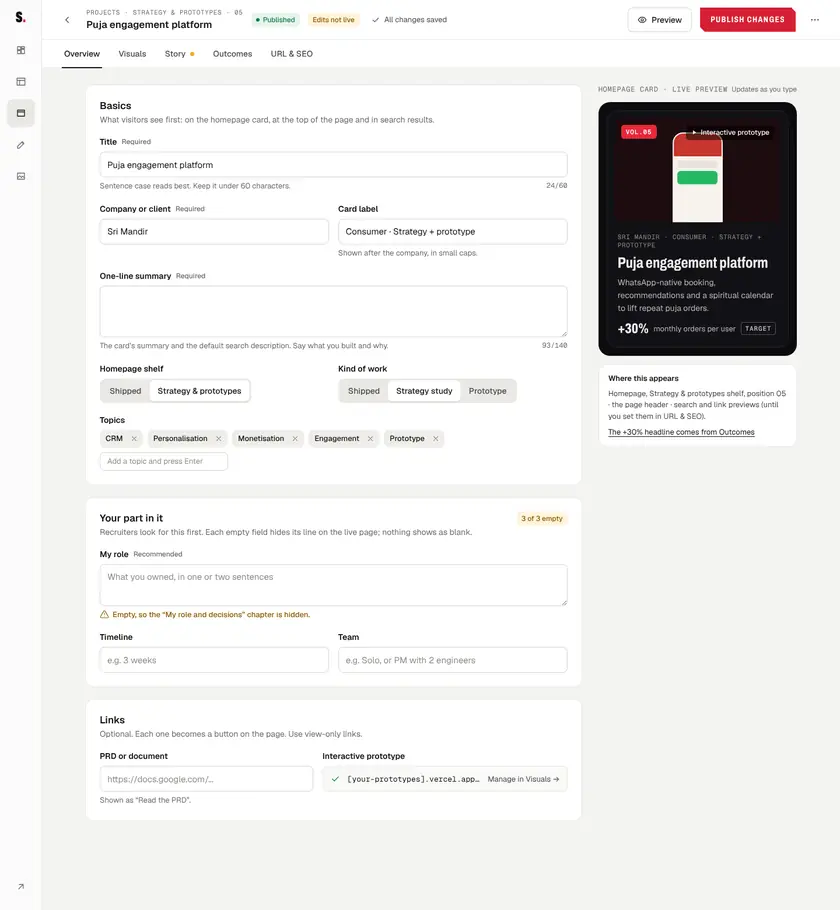
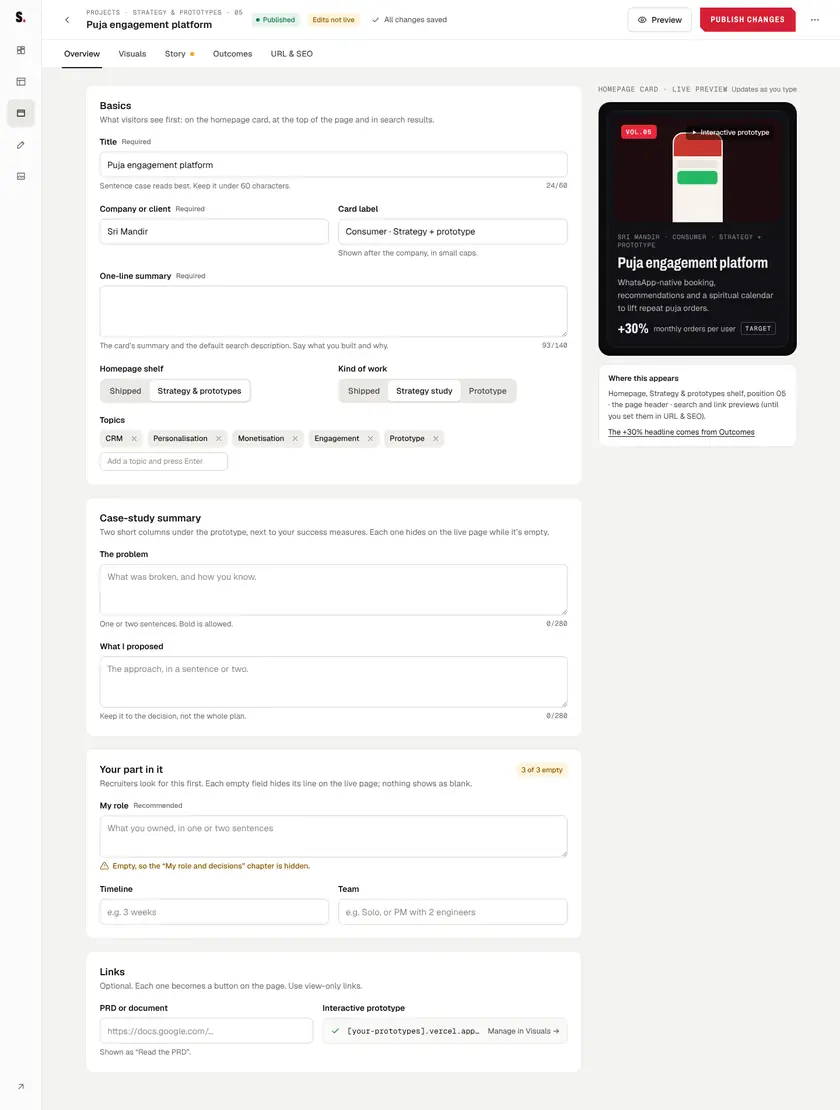
Design: case-study summary and accent fields in the project editor
- Overview gains "The problem" and "What I proposed", which fill the
  case study's summary row and hide while empty
- Visuals gains the project's accent colour, from the nine accents
- Studio canvas rows spaced so taller boards don't overlap the titles
- First-run copy no longer offers an import: V0 content is published
- Draft preview board keeps the owner's chosen default view

Claude-Session: https://claude.ai/code/session_01HuqcEgvRxGCioVYibk1SFA

diff --git a/design/boards/StudioStates.dc.html b/design/boards/StudioStates.dc.html
@@ -84,7 +84,7 @@ body{margin:0;background:#F4F4F2}
 <section class="grp"><h2>Confirmations</h2><p>Only for actions that change the live site or can’t be undone.</p><div class="sgrid" style="grid-template-columns: repeat(3, minmax(0, 1fr));"><div class="spec"><div class="cap">Publish changes · ready</div><div class="dlg"><h3>Update the live page for “Puja engagement platform”?</h3><p>The live version is replaced; the link stays the same.</p><div style="margin-top: 14px; display: grid; gap: 8px;"><div class="ln"><svg class="ico" viewBox="0 0 24 24" aria-hidden="true" style="color: var(--ok);"><path d="M5 12.5l4.5 4.5L19 7.5"></path></svg><span>Cover, prototype and every image’s alt text are set.</span></div><div class="ln"><svg class="ico" viewBox="0 0 24 24" aria-hidden="true" style="color: var(--warn);"><path d="M12 9v4M12 17h.01M10.3 3.9L2 18a2 2 0 001.7 3h16.6a2 2 0 001.7-3L13.7 3.9a2 2 0 00-3.4 0z"></path></svg><span>My role is empty, so that chapter stays hidden.</span></div></div><div class="acts"><button class="btn">Cancel</button><button class="cta">Publish now</button></div></div></div><div class="spec"><div class="cap">Publish blocked</div><div class="dlg"><h3>Fix 2 things to publish</h3><div style="margin-top: 12px; display: grid; gap: 8px;"><div class="ln"><svg class="ico" viewBox="0 0 24 24" aria-hidden="true" style="color: var(--err);"><circle cx="12" cy="12" r="9"></circle><path d="M15 9l-6 6M9 9l6 6"></path></svg><span><strong>1 image needs alt text</strong> · Visuals → Gallery</span></div><div class="ln"><svg class="ico" viewBox="0 0 24 24" aria-hidden="true" style="color: var(--err);"><circle cx="12" cy="12" r="9"></circle><path d="M15 9l-6 6M9 9l6 6"></path></svg><span><strong>Result 1 is marked achieved without evidence</strong> · Outcomes</span></div></div><p>Each item links to the field. Drafts keep saving while you fix them.</p><div class="acts"><button class="btn">Close</button><button class="cta" style="background: #D2D0CA; color: #4A4A51;">Fix 2 to publish</button></div></div></div><div class="spec"><div class="cap">Unpublish</div><div class="dlg"><h3>Unpublish “Arcana Workspace”?</h3><p>It leaves your homepage now. Its link shows your work index instead. Your content stays as a draft.</p><div class="acts"><button class="btn">Cancel</button><button class="dbtn">Unpublish</button></div></div></div><div class="spec"><div class="cap">Delete · type to confirm</div><div class="dlg"><h3>Delete “Puja engagement platform”?</h3><p>This can’t be undone. Images and videos stay in your media library.</p><label style="display: block; margin-top: 12px; font-size: 13px; color: var(--tx2);">Type <strong style="font-family: var(--fm);">puja-engagement-platform</strong> to confirm</label><div class="inp" style="display: flex; align-items: center; font-family: var(--fm); font-size: 14px;">puja-engagement<span style="width: 1px; height: 18px; margin-left: 1px; background: var(--tx);"></span></div><div class="acts"><button class="btn">Cancel</button><button class="dbtn" style="background: #E4E3DF; color: #6A6A72;">Delete forever</button></div></div></div><div class="spec"><div class="cap">Discard homepage layout</div><div class="dlg"><h3>Discard your new order?</h3><p>The homepage keeps its live order. Project drafts aren’t affected.</p><div class="acts"><button class="btn">Keep editing</button><button class="dbtn">Discard</button></div></div></div><div class="spec"><div class="cap">Leaving with unsynced changes</div><div class="dlg"><h3>Some changes haven’t synced yet</h3><p>You’re offline. They’re saved on this device and will sync the next time you open Studio here.</p><div class="acts"><button class="btn">Stay</button><button class="cta">Leave anyway</button></div></div></div></div></section>
 <section class="grp"><h2>Session, conflicts and connection</h2><p>Nothing is lost when the session ends or two tabs disagree.</p><div class="sgrid" style="grid-template-columns: repeat(3, minmax(0, 1fr));"><div class="spec"><div class="cap">Session expired</div><div class="dlg"><span style="width: 40px; height: 40px; border-radius: 10px; background: #EFEEEA; display: grid; place-items: center;"><svg class="ico" viewBox="0 0 24 24" aria-hidden="true"><rect x="5" y="11" width="14" height="10" rx="2"></rect><path d="M8 11V8a4 4 0 018 0v3"></path></svg></span><h3 style="margin-top: 14px;">You’ve been signed out</h3><p>Sign in again to keep editing. Your changes are saved on this device and sync after you sign in.</p><div class="acts" style="justify-content: flex-start; align-items: center; gap: 14px;"><button style="display: inline-flex; align-items: center; gap: 10px; height: 44px; padding: 0 18px; border: 0; border-radius: 10px; background: #141416; color: #fff; font: 500 15px/1 var(--fu); cursor: pointer;">Email me a code</button><span style="font: 400 13px/1.4 var(--fu); color: var(--tx3);">Sent to the address you used last on this device.</span></div></div></div><div class="spec"><div class="cap">Edited somewhere else</div><div class="dlg"><h3>This project changed in another tab</h3><p>Story was edited 2 minutes ago on another device. Load the latest to keep both, or keep yours and overwrite.</p><div style="margin-top: 12px; padding: 10px 12px; border-radius: 8px; background: #F2F1EE; font-size: 13px; color: var(--tx2);">Theirs: Prioritisation intro · Yours: RICE table</div><div class="acts"><button class="btn">Keep mine</button><button class="cta">Load latest</button></div></div></div><div class="spec"><div class="cap">Banners</div><div style="display: grid; gap: 10px;"><div class="ban" style="background: var(--warnbg); color: var(--warn);"><svg class="ico" viewBox="0 0 24 24" aria-hidden="true" style="width: 16px; height: 16px;"><path d="M3 3l18 18M8.5 8.6A6 6 0 006 13.5 4.5 4.5 0 0010.5 18H17M14 6.3A6 6 0 0118 11.5a4 4 0 012.6 5.6"></path></svg><span><strong>You’re offline.</strong> Keep editing; publishing is paused.</span></div><div class="ban" style="background: var(--errbg); color: var(--err);"><svg class="ico" viewBox="0 0 24 24" aria-hidden="true" style="width: 16px; height: 16px;"><circle cx="12" cy="12" r="9"></circle><path d="M12 8v5M12 16h.01"></path></svg><span><strong>Your last change didn’t save.</strong> Retrying.</span></div><div class="ban" style="background: #EFEEEA; color: var(--tx2);"><svg class="ico" viewBox="0 0 24 24" aria-hidden="true" style="width: 16px; height: 16px;"><circle cx="12" cy="12" r="9"></circle><path d="M12 7v5l3 2"></path></svg><span>A code was sent moments ago. You can ask for another in 0:42.</span></div></div></div></div></section>
 <section class="grp"><h2>Upload problems</h2><p>Each message names the file and the fix.</p><div class="sgrid" style="grid-template-columns: repeat(3, minmax(0, 1fr));"><div class="spec"><div class="cap">Too large</div><div class="ban" style="background: var(--errbg); color: #7A1A10;"><span style="flex: 1;"><strong style="font-family: var(--fm); font-size: 13px;">flow-diagram.png</strong> is 14.2 MB. Images can be up to 10 MB.</span><button class="btn" style="height: 34px;">Resize and upload</button></div></div><div class="spec"><div class="cap">Video file</div><div class="ban" style="background: var(--errbg); color: #7A1A10;"><span><strong style="font-family: var(--fm); font-size: 13px;">walkthrough.mp4</strong> · Video files aren’t uploaded. Paste a YouTube, Vimeo, Loom or Google Drive link in Visuals.</span></div></div><div class="spec"><div class="cap">Prototype as a file</div><div class="ban" style="background: var(--errbg); color: #7A1A10;"><span><strong style="font-family: var(--fm); font-size: 13px;">prototype.html</strong> · Prototypes are links now. Deploy it, for example on Vercel, and paste its address in a project’s Visuals tab.</span></div></div><div class="spec"><div class="cap">Connection lost mid-upload</div><div class="card" style="padding: 12px 14px;"><div style="display: flex; justify-content: space-between; font-size: 13px;"><span style="font-family: var(--fm);">screen-09.png</span><span style="color: var(--warn); font-weight: 500;">Paused at 62%</span></div><div style="margin-top: 8px; height: 6px; border-radius: 3px; background: #EFEEEA;"><div style="width: 62%; height: 6px; border-radius: 3px; background: #F5A524;"></div></div><div style="margin-top: 8px; font-size: 13px; color: var(--tx2);">Resumes on its own when you’re back online.</div></div></div><div class="spec"><div class="cap">Converted on upload</div><div class="ban" style="background: #EFEEEA; color: var(--tx2);"><svg class="ico" viewBox="0 0 24 24" aria-hidden="true" style="color: var(--tx2);"><path d="M5 12.5l4.5 4.5L19 7.5"></path></svg><span><strong style="font-family: var(--fm); font-size: 13px;">IMG_2041.heic</strong> was converted to JPG so every browser can show it.</span></div></div><div class="spec"><div class="cap">Needs alt text</div><div class="ban" style="background: var(--warnbg); color: #5C3D00;"><svg class="ico" viewBox="0 0 24 24" aria-hidden="true" style="color: var(--warn);"><path d="M12 9v4M12 17h.01M10.3 3.9L2 18a2 2 0 001.7 3h16.6a2 2 0 001.7-3L13.7 3.9a2 2 0 00-3.4 0z"></path></svg><span><strong style="font-family: var(--fm); font-size: 13px;">screen-08.png</strong> uploaded. Add alt text before publishing a page that uses it.</span></div></div></div></section>
-<section class="grp"><h2>Empty and loading</h2><p>Every empty state offers the next step.</p><div class="sgrid" style="grid-template-columns: repeat(5, minmax(0, 1fr));"><div class="spec"><div class="cap">First run</div><div class="emp"><b>Your first volume starts here</b><span>Add a project, or import the five case studies already in your site’s code.</span><button class="cta" style="margin-top: 6px; height: 38px;">New project</button></div></div><div class="spec"><div class="cap">No media</div><div class="emp"><b>No files yet</b><span>Drop images or PDFs here. Prototypes and videos are added as links.</span><button class="btn" style="margin-top: 6px; height: 38px;">Upload</button></div></div><div class="spec"><div class="cap">Empty chapter</div><div class="emp" style="border-style: dashed; background: var(--sf2);"><b>Nothing here yet</b><span>Hidden on the live page until it has content.</span><button class="btn" style="margin-top: 6px; height: 38px;">Add a block</button></div></div><div class="spec"><div class="cap">No results</div><div class="emp"><b>No projects match “roadmap”</b><span>Try a company name, like Sugar.fit or Zynga.</span><button class="btn" style="margin-top: 6px; height: 38px;">Clear search</button></div></div><div class="spec"><div class="cap">Loading</div><div class="card" style="padding: 18px; display: grid; gap: 12px;"><div class="shim" style="height: 18px; width: 60%;"></div><div class="shim" style="height: 90px;"></div><div class="shim" style="height: 14px; width: 80%;"></div><div class="shim" style="height: 14px; width: 45%;"></div></div></div></div></section>
+<section class="grp"><h2>Empty and loading</h2><p>Every empty state offers the next step.</p><div class="sgrid" style="grid-template-columns: repeat(5, minmax(0, 1fr));"><div class="spec"><div class="cap">First run</div><div class="emp"><b>Your first volume starts here</b><span>Add your first project. It stays a private draft until you publish it.</span><button class="cta" style="margin-top: 6px; height: 38px;">New project</button></div></div><div class="spec"><div class="cap">No media</div><div class="emp"><b>No files yet</b><span>Drop images or PDFs here. Prototypes and videos are added as links.</span><button class="btn" style="margin-top: 6px; height: 38px;">Upload</button></div></div><div class="spec"><div class="cap">Empty chapter</div><div class="emp" style="border-style: dashed; background: var(--sf2);"><b>Nothing here yet</b><span>Hidden on the live page until it has content.</span><button class="btn" style="margin-top: 6px; height: 38px;">Add a block</button></div></div><div class="spec"><div class="cap">No results</div><div class="emp"><b>No projects match “roadmap”</b><span>Try a company name, like Sugar.fit or Zynga.</span><button class="btn" style="margin-top: 6px; height: 38px;">Clear search</button></div></div><div class="spec"><div class="cap">Loading</div><div class="card" style="padding: 18px; display: grid; gap: 12px;"><div class="shim" style="height: 18px; width: 60%;"></div><div class="shim" style="height: 90px;"></div><div class="shim" style="height: 14px; width: 80%;"></div><div class="shim" style="height: 14px; width: 45%;"></div></div></div></div></section>
 <section class="grp"><h2>What the public site does</h2><p>Drafts never leak: not in pages, not in search, not in the sitemap.</p><div class="sgrid" style="grid-template-columns: repeat(3, minmax(0, 1fr));"><div class="spec"><div class="cap">A draft’s address, opened by a visitor</div><div class="pub"><div style="font-family: var(--fm); font-size: 12px; color: #8F8D87;">[your-domain]/work/3d-body-scan</div><div style="margin-top: 14px; font-family: Archivo, sans-serif; font-stretch: 62%; font-weight: 800; font-size: 54px; line-height: .9; text-transform: uppercase;">Page not found<span style="color: #D61F33;">.</span></div><p style="margin: 12px 0 0; font-size: 14px; line-height: 1.55; color: #B9B7B1;">The same 404 as any missing page, so a draft’s existence never leaks. Served with noindex.</p></div></div><div class="spec"><div class="cap">Expired preview link</div><div class="pub"><div style="font-family: var(--fm); font-size: 12px; color: #8F8D87;">[your-domain]/preview/k7Qe…</div><div style="margin-top: 14px; font-size: 22px; font-weight: 600;">This preview link has expired</div><p style="margin: 10px 0 0; font-size: 14px; line-height: 1.55; color: #B9B7B1;">Preview links last 7 days. Ask for a new one, or see the published work.</p><span style="display: inline-flex; margin-top: 14px; height: 44px; align-items: center; padding: 0 18px; background: #D61F33; color: #fff; font-family: Archivo, sans-serif; font-stretch: 75%; font-weight: 600; font-size: 13px; letter-spacing: .12em; text-transform: uppercase; clip-path: polygon(0 0,calc(100% - 8px) 0,100% 8px,100% 100%,8px 100%,0 calc(100% - 8px));">See the work</span></div></div><div class="spec"><div class="cap">Draft preview, opened by you</div><div class="pub" style="padding: 0; overflow: hidden;"><div style="padding: 10px 14px; background: rgba(245,165,36,.16); color: #F5C66B; font-size: 13px; font-weight: 600;">Draft preview · not public · noindex</div><div style="padding: 20px 28px 28px;"><div style="font-family: Archivo, sans-serif; font-stretch: 62%; font-weight: 800; font-size: 40px; line-height: .9; text-transform: uppercase;">Puja engagement platform</div><p style="margin: 10px 0 0; font-size: 14px; color: #B9B7B1;">Only signed-in owners and valid preview links see this bar and the draft.</p></div></div></div></div></section>
 </div>
 </x-dc>

diff --git a/design/boards/EditorVisuals.dc.html b/design/boards/EditorVisuals.dc.html
@@ -79,6 +79,8 @@ body{margin:0;background:#F4F4F2}
 .st .chk{display:flex;align-items:center;gap:10px;font-size:14px;cursor:pointer}
 .st .chk input{width:18px;height:18px;margin:0;accent-color:#141416}
 @media (prefers-reduced-motion:reduce){.st .fp,.st .crop svg,.st .bar span{transition:none}}
+.st .swatch{width:28px;height:28px;padding:0;border:0;border-radius:50%;cursor:pointer}
+.st .swatch[aria-checked="true"]{box-shadow:0 0 0 2px #fff,0 0 0 4px #141416}
 </style>
 </helmet>
 <div class="st" style="position: relative; min-height: 1960px; display: flex; background: var(--bg); color: var(--tx); font-family: var(--fu);" onKeyDown="{{onRootKey}}">
@@ -146,6 +148,12 @@ body{margin:0;background:#F4F4F2}
 </div>
 
 <div style="display: {{imgD}}; margin-top: 20px; align-items: center; gap: 12px; padding: 12px 14px; border-radius: 10px; background: #F2F1EE; font-size: 14px; color: var(--tx2);"><svg class="ico" viewBox="0 0 24 24" aria-hidden="true"><path d="M4 5h16v14H4zM4 16l5-5 4 4 3-3 4 4"></path></svg>Uses the cover image below, cropped to 16:10.</div>
+</section>
+
+<section class="card sec" aria-labelledby="s-accent">
+<h2 id="s-accent">Accent colour</h2><p class="sub">The project’s colour on the site: its volume tag, chapter and step numbers, highlighted table rows, and the generated cover if there’s no image.</p>
+<div role="radiogroup" aria-labelledby="s-accent" style="margin-top: 16px; display: flex; flex-wrap: wrap; gap: 10px;"><sc-for list="{{accents}}" as="c" hint-placeholder-count="9"><button class="swatch" role="radio" aria-checked="{{c.on}}" aria-label="{{c.name}}" onClick="{{c.pick}}" style="background: {{c.hex}};"></button></sc-for></div>
+<div class="hrow" style="margin-top: 10px;"><span class="hint">{{accHint}}</span></div>
 </section>
 
 <section class="card sec" aria-labelledby="s-cover">
@@ -232,7 +240,7 @@ body{margin:0;background:#F4F4F2}
 <div class="sr" aria-live="polite">{{announce}}</div>
 </div>
 </x-dc>
-<script type="text/x-dc" data-dc-script data-props='{"state":{"editor":"enum","options":["default","uploading","missing alt text","publish blocked","video hero","video link error","video from Google Drive","prototype preview link","prototype can’t embed","saving","offline","save failed","publish dialog","published"],"default":"default"},"$preview":{"width":1440,"height":1960}}'>
+<script type="text/x-dc" data-dc-script data-props='{"state":{"editor":"enum","options":["default","uploading","missing alt text","publish blocked","video hero","video link error","video from Google Drive","prototype preview link","prototype can’t embed","saving","offline","save failed","publish dialog","published"],"default":"default"},"$preview":{"width":1440,"height":2280}}'>
 class Component extends DCLogic {
   constructor(props) {
     super(props);
@@ -339,7 +347,7 @@ class Component extends DCLogic {
   }
 
   boardFresh() {
-    return { hero: 'proto', frame: 'phone', start: 'click', purl: 'https://[your-prototypes].vercel.app/sri-mandir', pblock: false, vurl: '', fx: 0.5, fy: 0.42, calt: 'Three screens from the Sri Mandir prototype: home, a WhatsApp booking chat and the spiritual calendar.', gal: this.G0.map((g) => Object.assign({ st: 'done', pct: 100, deco: false }, g)), sel: 'g5', touched: false };
+    return { acc: 'Coral', hero: 'proto', frame: 'phone', start: 'click', purl: 'https://[your-prototypes].vercel.app/sri-mandir', pblock: false, vurl: '', fx: 0.5, fy: 0.42, calt: 'Three screens from the Sri Mandir prototype: home, a WhatsApp booking chat and the spiritual calendar.', gal: this.G0.map((g) => Object.assign({ st: 'done', pct: 100, deco: false }, g)), sel: 'g5', touched: false };
   }
   boardPreset(n) {
     const g = this.G0.map((x) => Object.assign({ st: 'done', pct: 100, deco: false }, x));
@@ -507,7 +515,14 @@ class Component extends DCLogic {
       selCap: sel ? sel.cap : '', onCap: this.onCap, moveLeft: this.moveLeft, moveRight: this.moveRight, remove: this.remove, resize: this.resize
     };
   }
-  renderVals() { return Object.assign(this.shellVals(), this.boardVals()); }
+  accentVals() {
+    const A = [['Teal', '#2DD4BF'], ['Amber', '#F5A524'], ['Sky', '#38BDF8'], ['Violet', '#A78BFA'], ['Coral', '#FF5A67'], ['Slate', '#94A3B8'], ['Green', '#4ADE80'], ['Yellow', '#FACC15'], ['Lime', '#A3E635']];
+    const used = { Yellow: 'Word games monetisation strategy', Slate: 'Arcana Workspace', Green: 'GLP-1 digital scaffold', Lime: 'Revenue growth strategy' };
+    const a = this.state.acc;
+    return { accents: A.map((c) => ({ name: c[0] + (used[c[0]] ? ', also used by ' + used[c[0]] : ''), hex: c[1], on: a === c[0] ? 'true' : 'false', pick: () => { this.setState({ acc: c[0], announce: c[0] + ' chosen' }); this.autosave(); } })),
+      accHint: a + (used[a] ? '. ' + used[a] + ' on the same shelf uses it too: pick another so the two stand apart.' : '. Saved with the project; text on it is always near-black.') };
+  }
+  renderVals() { return Object.assign(this.shellVals(), this.boardVals(), this.accentVals()); }
 }
 </script>
 </body>

diff --git a/design/boards/EditorOverview.dc.html b/design/boards/EditorOverview.dc.html
@@ -126,6 +126,20 @@ body{margin:0;background:#F4F4F2}
 </div>
 </section>
 
+<section class="card sec" aria-labelledby="s-brief">
+<h2 id="s-brief">Case-study summary</h2><p class="sub">Two short columns under the prototype, next to your success measures. Each one hides on the live page while it’s empty.</p>
+<div class="fld">
+<label class="lbl" for="f-prob">The problem</label>
+<textarea id="f-prob" class="inp" data-k="prob" onChange="{{onField}}" aria-describedby="f-prob-h" value="{{prob}}" placeholder="What was broken, and how you know."></textarea>
+<div class="hrow" id="f-prob-h"><span class="hint">One or two sentences. Bold is allowed.</span><span class="cnt" style="color: {{probCntColor}};">{{probLen}}/280</span></div>
+</div>
+<div class="fld">
+<label class="lbl" for="f-prop">What I proposed</label>
+<textarea id="f-prop" class="inp" data-k="prop" onChange="{{onField}}" aria-describedby="f-prop-h" value="{{prop}}" placeholder="The approach, in a sentence or two."></textarea>
+<div class="hrow" id="f-prop-h"><span class="hint">Keep it to the decision, not the whole plan.</span><span class="cnt" style="color: {{propCntColor}};">{{propLen}}/280</span></div>
+</div>
+</section>
+
 <section class="card sec" aria-labelledby="s-ctx">
 <div style="display: flex; align-items: flex-start; justify-content: space-between; gap: 16px;"><div><h2 id="s-ctx">Your part in it</h2><p class="sub">Recruiters look for this first. Each empty field hides its line on the live page; nothing shows as blank.</p></div><span class="chip" style="display: {{ctxChipD}}; background: var(--warnbg); color: var(--warn);">{{ctxMissing}}</span></div>
 <div class="fld">
@@ -213,14 +227,14 @@ body{margin:0;background:#F4F4F2}
 <div class="sr" aria-live="polite">{{announce}}</div>
 </div>
 </x-dc>
-<script type="text/x-dc" data-dc-script data-props='{"state":{"editor":"enum","options":["default","saving","offline","save failed","validation error","publish dialog","publish blocked","publishing","published"],"default":"default"},"$preview":{"width":1440,"height":1560}}'>
+<script type="text/x-dc" data-dc-script data-props='{"state":{"editor":"enum","options":["default","saving","offline","save failed","validation error","publish dialog","publish blocked","publishing","published"],"default":"default"},"$preview":{"width":1440,"height":1920}}'>
 class Component extends DCLogic {
   constructor(props) {
     super(props);
     this.init = {
       title: 'Puja engagement platform', co: 'Sri Mandir', eye: 'Consumer · Strategy + prototype',
       sum: 'WhatsApp-native booking, recommendations and a spiritual calendar to lift repeat puja orders.',
-      role: '', time: '', team: '', prd: '', shelf: 'b', kind: 'study',
+      prob: '', prop: '', role: '', time: '', team: '', prd: '', shelf: 'b', kind: 'study',
       topics: ['CRM', 'Personalisation', 'Monetisation', 'Engagement', 'Prototype']
     };
     ['onField', 'setShelf', 'setKind', 'onTopic', 'topicKey', 'removeTopic', 'retrySave', 'openPublish', 'closePublish', 'confirmPublish', 'closeToast', 'onRootKey', 'stop'].forEach((k) => { this[k] = this[k].bind(this); });
@@ -305,7 +319,8 @@ class Component extends DCLogic {
   armToast() { clearTimeout(this.tt); this.tt = setTimeout(() => this.setState({ toast: null }), 8000); }
   closeToast() { clearTimeout(this.tt); this.setState({ toast: null }); }
   onRootKey(e) { if (e.key === 'Escape' && this.state.dialog === 'open') this.setState({ dialog: null }); }
-  renderVals() {
+  renderVals() { const s = this.state, p = s.prob || '', q = s.prop || ''; return Object.assign(this.baseVals(), { prob: p, prop: q, probLen: p.length, propLen: q.length, probCntColor: p.length > 280 ? '#B42318' : '#6A6A72', propCntColor: q.length > 280 ? '#B42318' : '#6A6A72' }); }
+  baseVals() {
     const s = this.state, i = this.init, iss = this.issues();
     const tErr = s.showErrors && !s.title.trim();
     const sOver = s.sum.length > 140, sEmpty = !s.sum.trim(), sErr = sOver || (s.showErrors && sEmpty);

diff --git a/design/boards/StudioPreview.dc.html b/design/boards/StudioPreview.dc.html
@@ -120,7 +120,7 @@ body{margin:0;background:#26262C}
 <div class="sr" aria-live="polite" style="position: absolute; width: 1px; height: 1px; overflow: hidden; clip: rect(0 0 0 0);">{{announce}}</div>
 </div>
 </x-dc>
-<script type="text/x-dc" data-dc-script data-props='{"state":{"editor":"enum","options":["desktop","tablet","phone","compare desktop","compare phone","share open"],"default":"desktop"},"$preview":{"width":1440,"height":1100}}'>
+<script type="text/x-dc" data-dc-script data-props="{&quot;state&quot;:{&quot;editor&quot;:&quot;enum&quot;,&quot;options&quot;:[&quot;desktop&quot;,&quot;tablet&quot;,&quot;phone&quot;,&quot;compare desktop&quot;,&quot;compare phone&quot;,&quot;share open&quot;],&quot;default&quot;:&quot;compare phone&quot;},&quot;$preview&quot;:{&quot;width&quot;:1440,&quot;height&quot;:1100}}">
 class Component extends DCLogic {
   constructor(props) {
     super(props);

diff --git a/design/README.md b/design/README.md
@@ -81,8 +81,8 @@ V0 of the rebuilt site launches with the current site's content. [`docs/handover
 | [StudioDashboard](boards/StudioDashboard.dc.html) · [preview](previews/StudioDashboard.webp) | `/studio` | populated, empty, loading |
 | [StudioSite](boards/StudioSite.dc.html) · [preview](previews/StudioSite.webp) | The Website builder: sections, widgets, nav, floating previews, skill sizes, Off duty panels | each panel and state |
 | [StudioProjects](boards/StudioProjects.dc.html) · [preview](previews/StudioProjects.webp) | `/studio/projects` | every list state |
-| [EditorOverview](boards/EditorOverview.dc.html) · [preview](previews/EditorOverview.webp) | Project editor › Overview | save and publish states |
-| [EditorVisuals](boards/EditorVisuals.dc.html) · [preview](previews/EditorVisuals.webp) | › Visuals: cover, gallery, video, prototype | upload and link states |
+| [EditorOverview](boards/EditorOverview.dc.html) · [preview](previews/EditorOverview.webp) | Project editor › Overview: basics, case-study summary, your part, links | save and publish states |
+| [EditorVisuals](boards/EditorVisuals.dc.html) · [preview](previews/EditorVisuals.webp) | › Visuals: top of the page, accent colour, cover, gallery, video, prototype | upload and link states |
 | [EditorCaseStudy](boards/EditorCaseStudy.dc.html) · [preview](previews/EditorCaseStudy.webp) | › Story: chapters and blocks | block builder states |
 | [EditorOutcomes](boards/EditorOutcomes.dc.html) · [preview](previews/EditorOutcomes.webp) | › Outcomes: labelled numbers | label, evidence, honesty check |
 | [EditorSettings](boards/EditorSettings.dc.html) · [preview](previews/EditorSettings.webp) | › URL & SEO | redirect, preview link, unlisted, delete |
